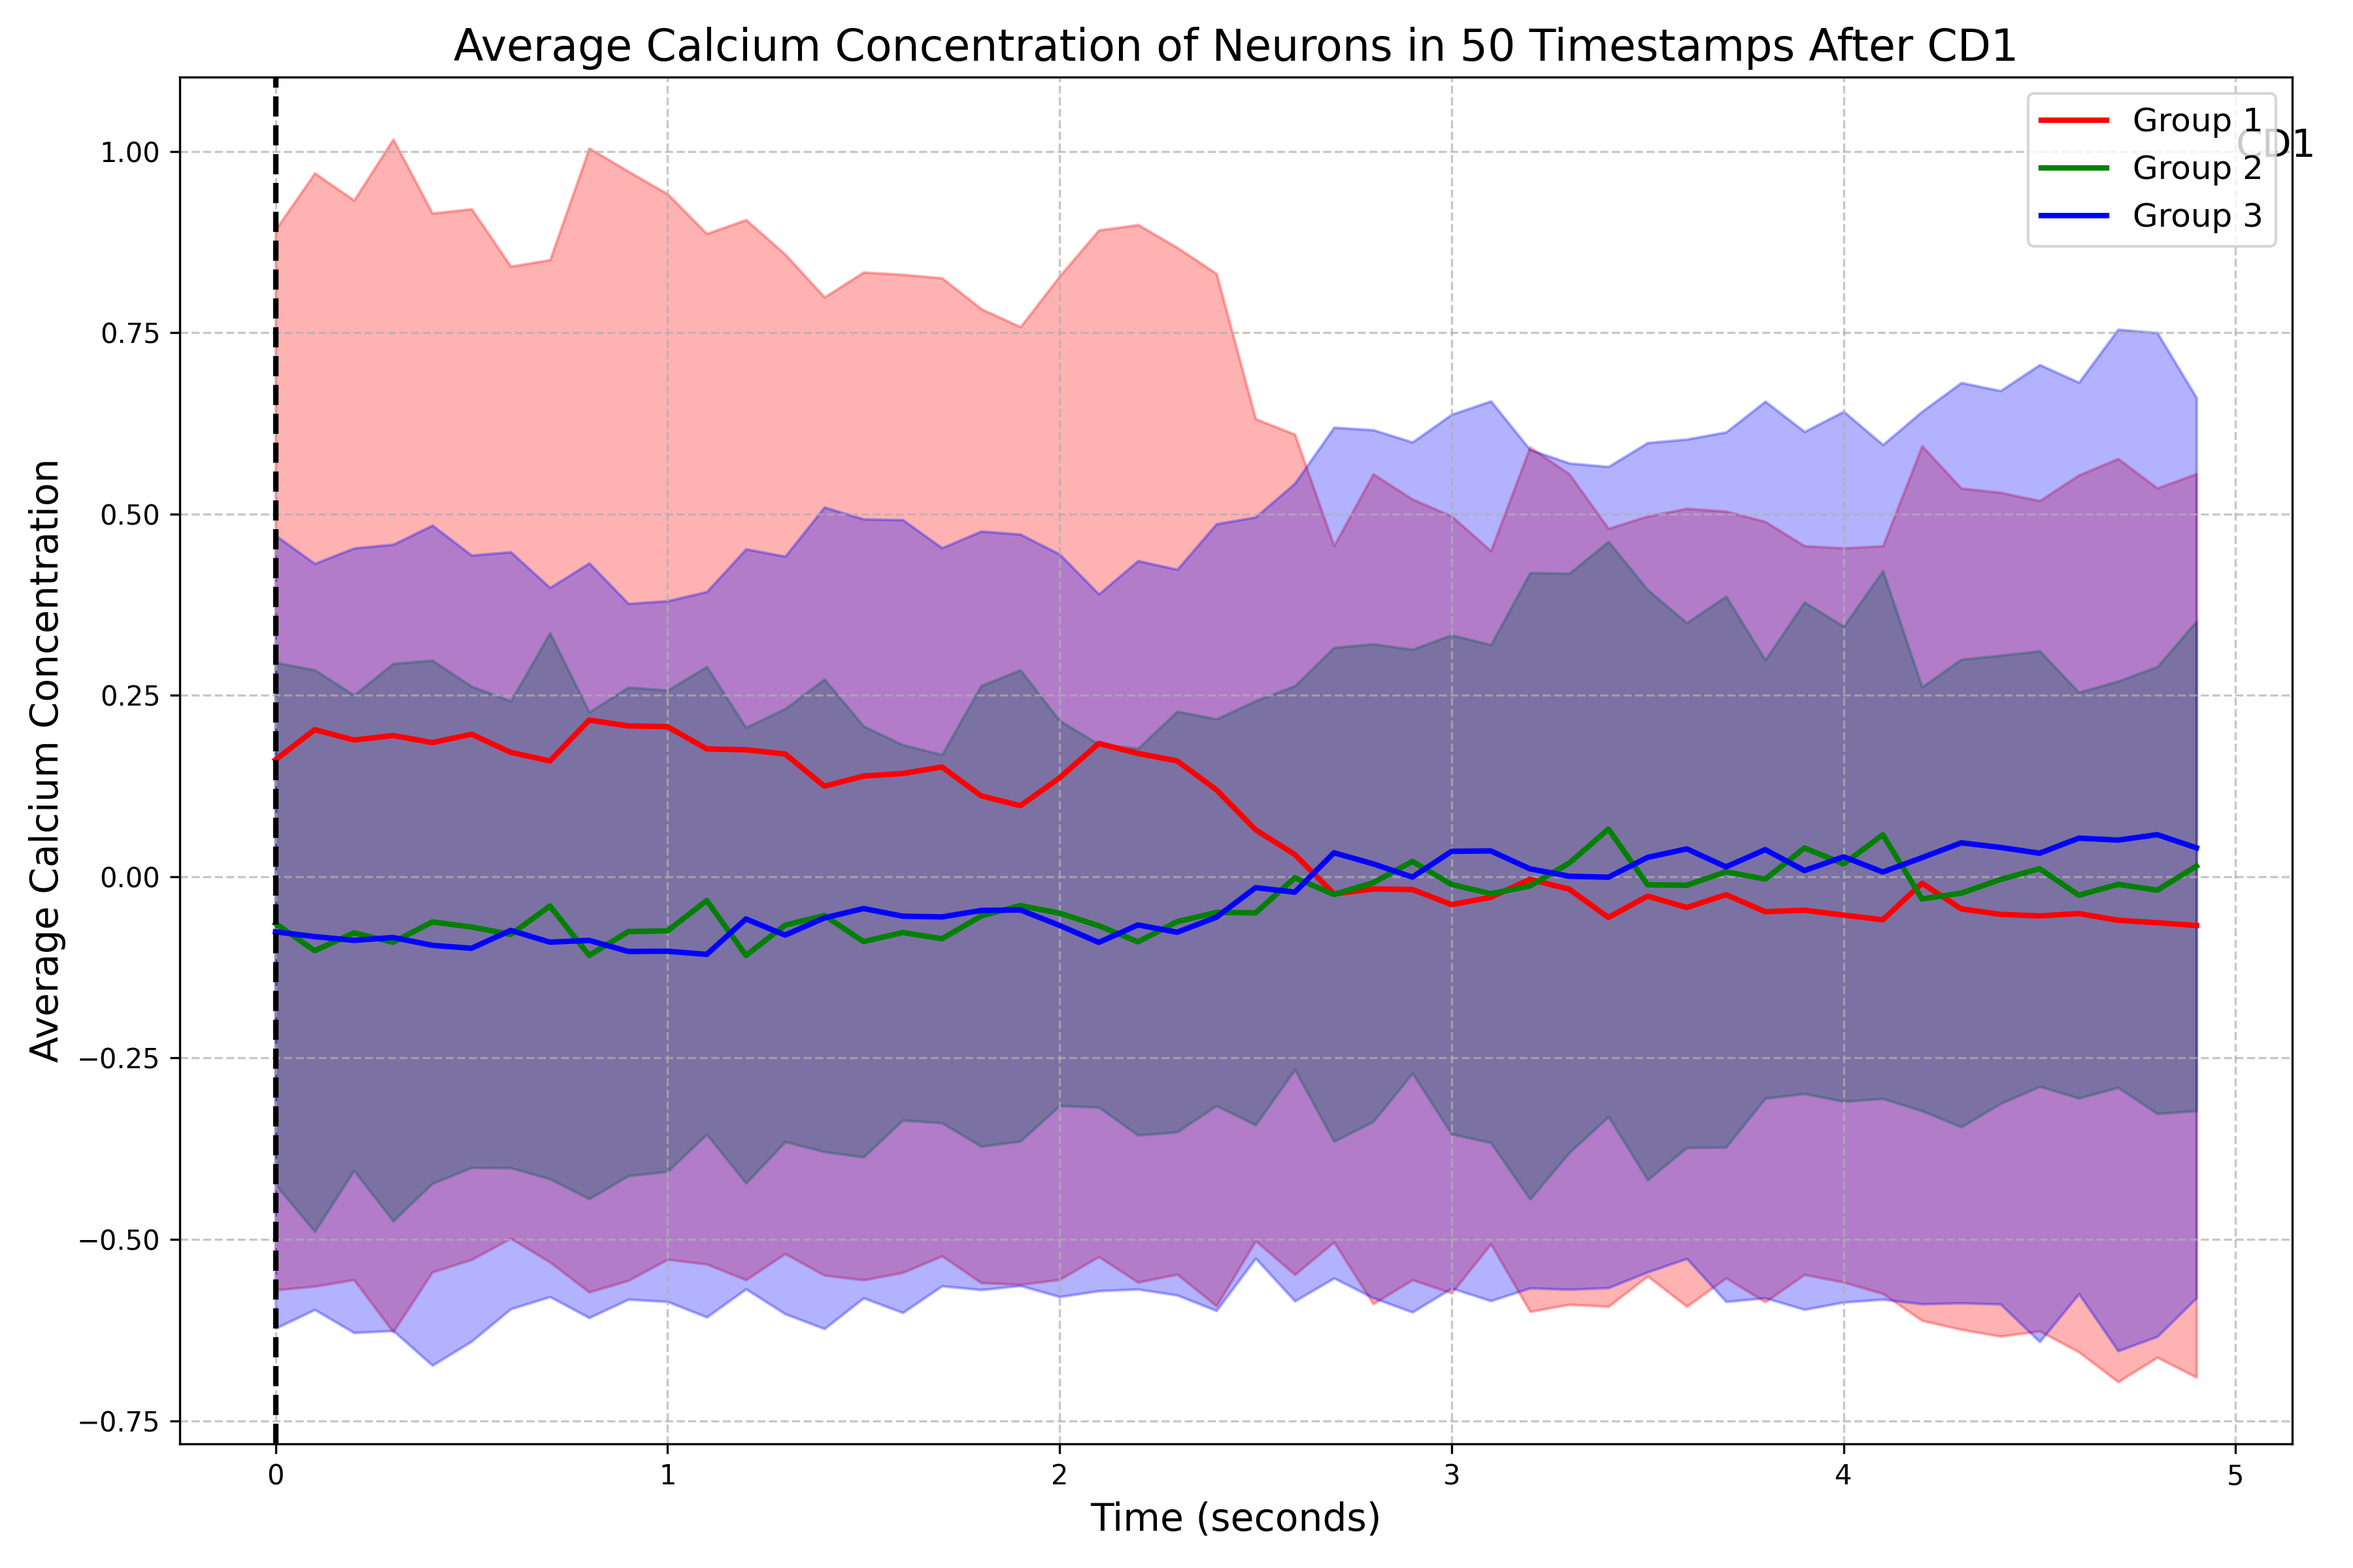
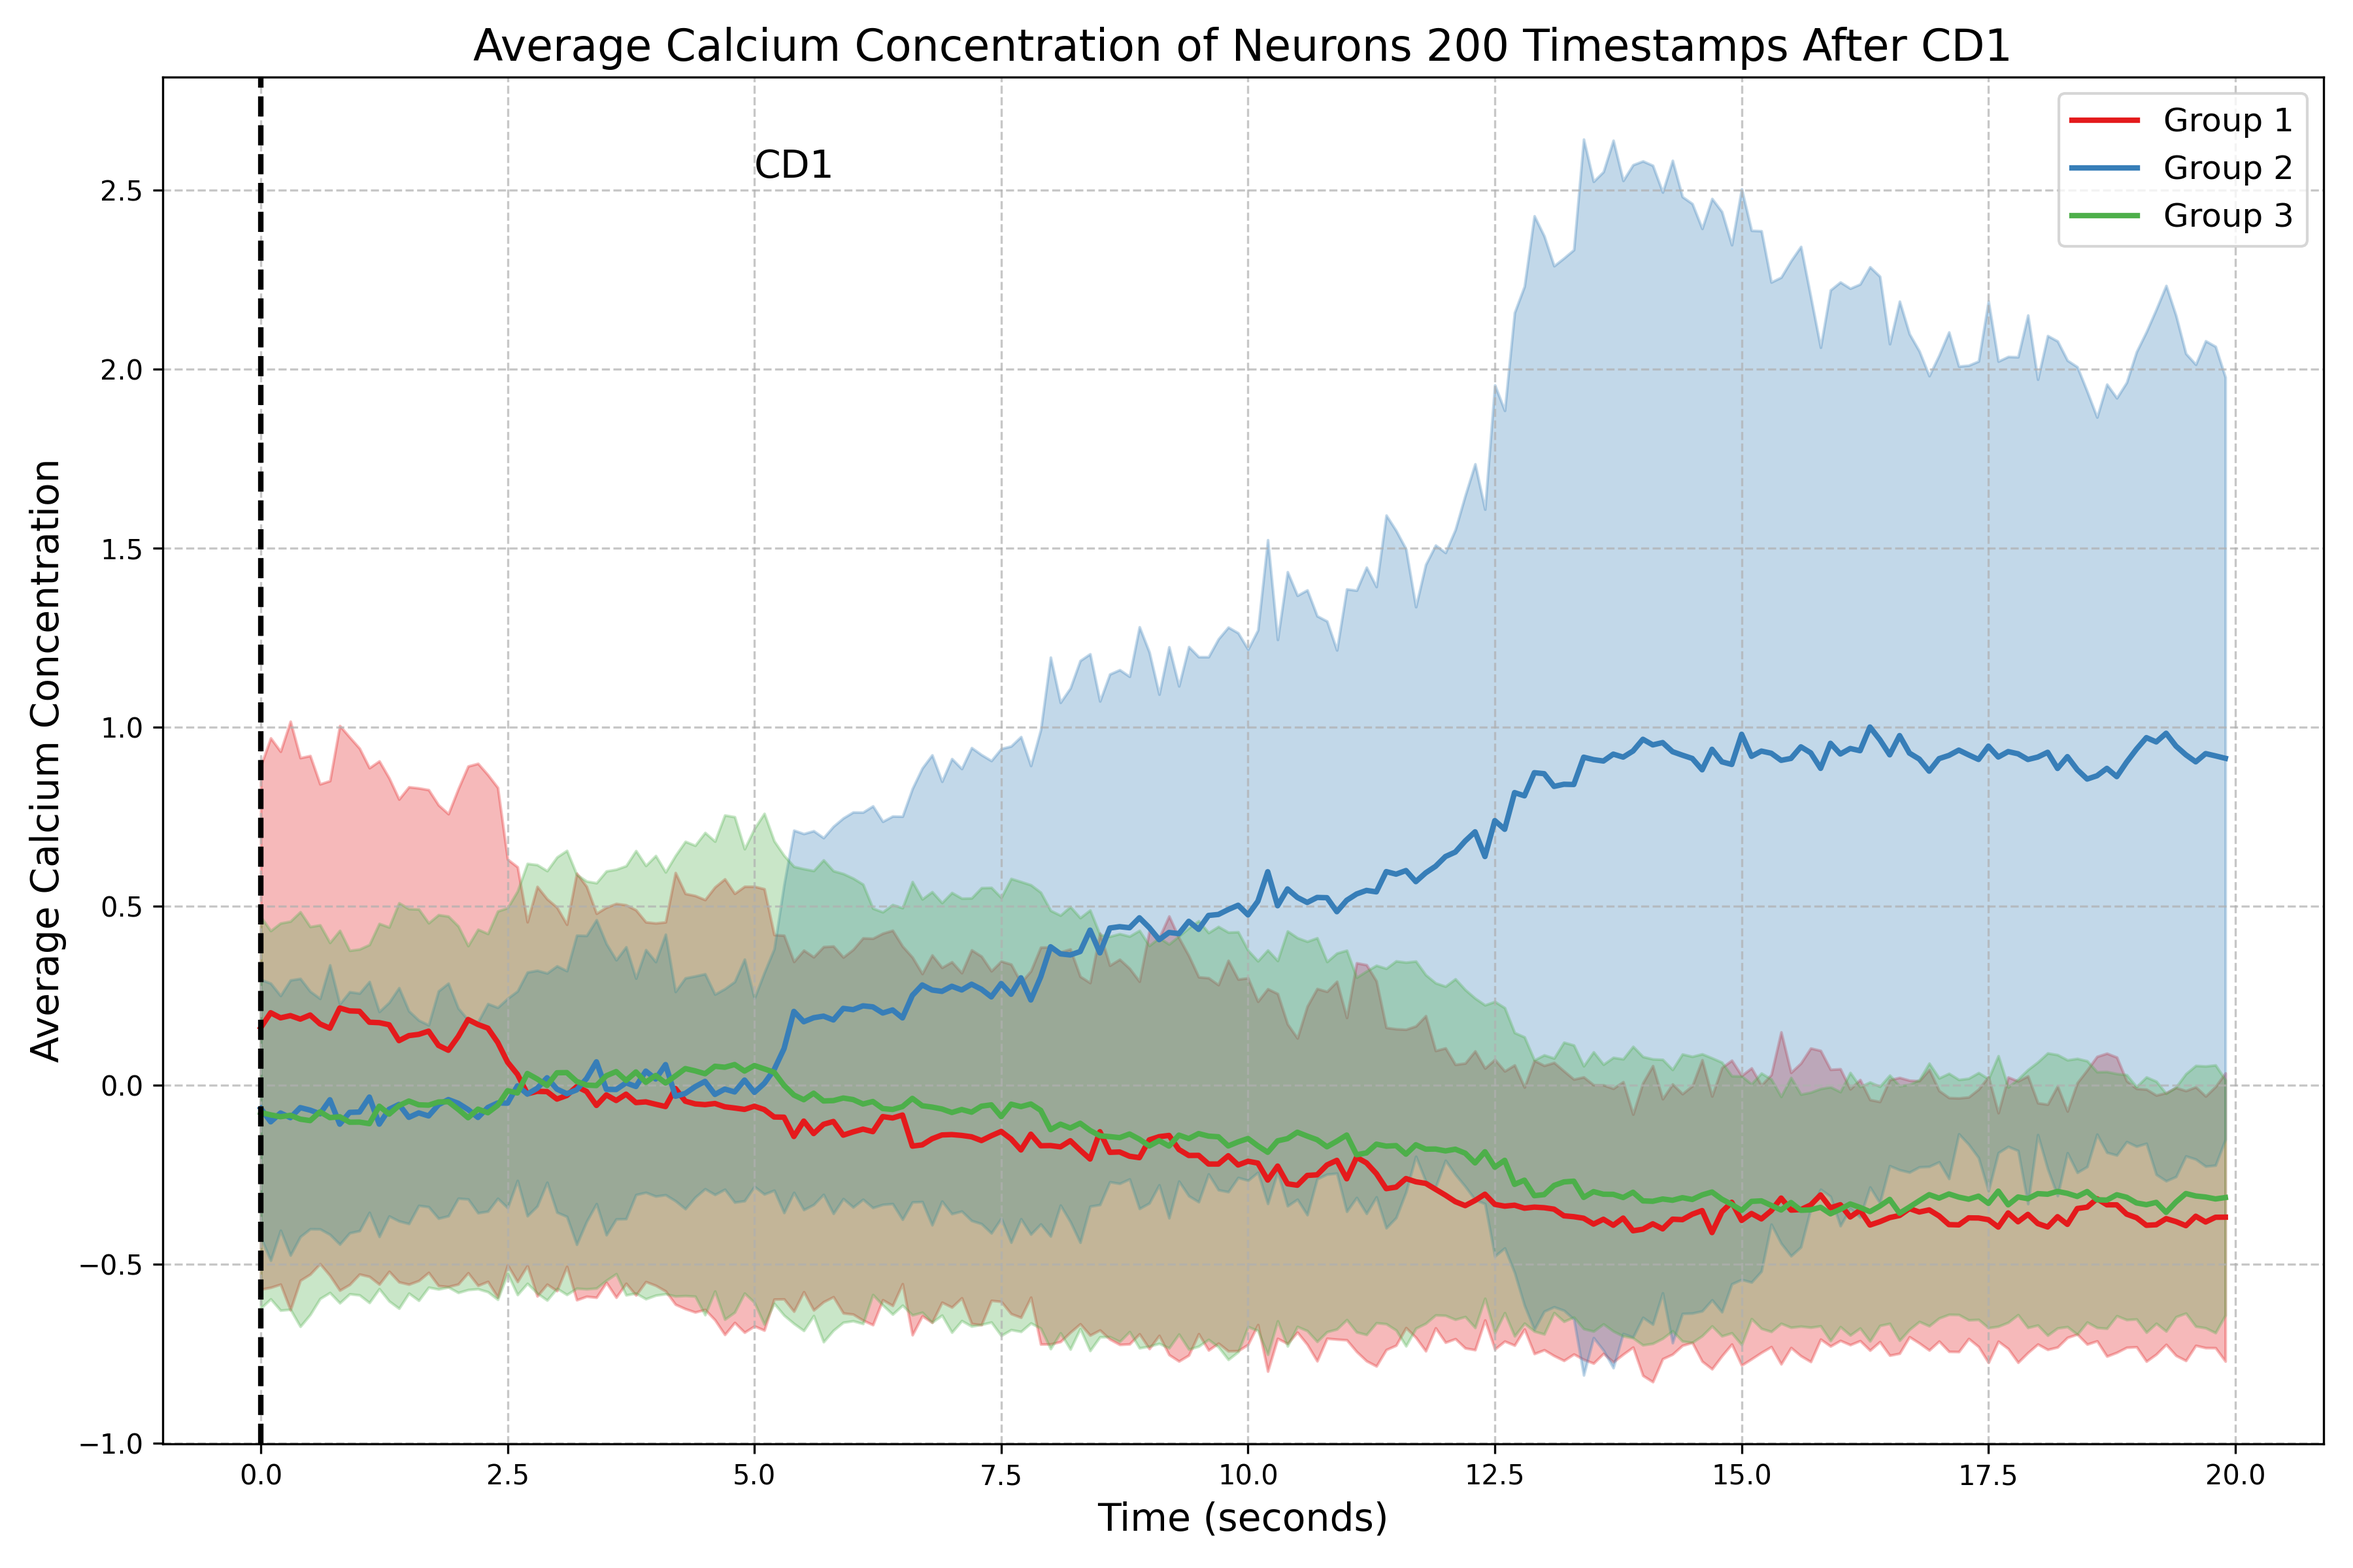
统一颜色

diff --git a/Visualization/src/show_trace.py b/Visualization/src/show_trace.py
@@ -16,9 +16,9 @@ def parse_args():
     parser.add_argument('--output-dir', type=str, 
                         default='../results/CD1_traces/',
                         help='输出图像目录')
-    parser.add_argument('--before-stamps', type=int, default=50,
+    parser.add_argument('--before-stamps', type=int, default=200,
                         help='CD1标签前的时间戳数量')
-    parser.add_argument('--after-stamps', type=int, default=50,
+    parser.add_argument('--after-stamps', type=int, default=200,
                         help='CD1标签后的时间戳数量')
     return parser.parse_args()
 
@@ -179,25 +179,25 @@ def plot_trace_before_cd1(data, cd1_index, n_stamps, output_path):
     plt.figure(figsize=(12, 8))
     
     # 使用统一的颜色方案绘制三条曲线及其阴影区域
-    # 组1
+    # Group 1
     plt.plot(plot_data['relative_time'], plot_data['group1_avg'], 
-             color=GROUP_COLORS['group1'], label='组1', linewidth=2)
+             color=GROUP_COLORS['group1'], label='Group 1', linewidth=2)
     plt.fill_between(plot_data['relative_time'], 
                      plot_data['group1_avg'] - plot_data['group1_std'],
                      plot_data['group1_avg'] + plot_data['group1_std'],
                      color=GROUP_COLORS['group1'], alpha=0.3)
     
-    # 组2
+    # Group 2
     plt.plot(plot_data['relative_time'], plot_data['group2_avg'], 
-             color=GROUP_COLORS['group2'], label='组2', linewidth=2)
+             color=GROUP_COLORS['group2'], label='Group 2', linewidth=2)
     plt.fill_between(plot_data['relative_time'], 
                      plot_data['group2_avg'] - plot_data['group2_std'],
                      plot_data['group2_avg'] + plot_data['group2_std'],
                      color=GROUP_COLORS['group2'], alpha=0.3)
     
-    # 组3
+    # Group 3
     plt.plot(plot_data['relative_time'], plot_data['group3_avg'], 
-             color=GROUP_COLORS['group3'], label='组3', linewidth=2)
+             color=GROUP_COLORS['group3'], label='Group 3', linewidth=2)
     plt.fill_between(plot_data['relative_time'], 
                      plot_data['group3_avg'] - plot_data['group3_std'],
                      plot_data['group3_avg'] + plot_data['group3_std'],
@@ -205,16 +205,16 @@ def plot_trace_before_cd1(data, cd1_index, n_stamps, output_path):
     
     # 添加图例和标签
     plt.legend(fontsize=12)
-    plt.xlabel('时间 (秒)', fontsize=14)
-    plt.ylabel('平均钙离子浓度', fontsize=14)
-    plt.title(f'CD1标签前{n_stamps}个时间戳的神经元平均钙离子浓度', fontsize=16)
+    plt.xlabel('Time (seconds)', fontsize=14)
+    plt.ylabel('Average Calcium Concentration', fontsize=14)
+    plt.title(f'Average Calcium Concentration of Neurons {n_stamps} Timestamps Before CD1', fontsize=16)
     
     # 添加垂直线标记CD1出现时间点
     plt.axvline(x=plot_data['relative_time'].max(), color='k', linestyle='--', linewidth=2)
     plt.text(plot_data['relative_time'].max()-5, plt.ylim()[1]*0.9, 'CD1', fontsize=14)
     
     # 网格线
-    plt.grid(True, linestyle='--', alpha=0.7)
+    plt.grid(False)
     
     # 保存图像
     plt.tight_layout()
@@ -254,25 +254,25 @@ def plot_trace_after_cd1(data, cd1_index, n_stamps, output_path):
     plt.figure(figsize=(12, 8))
     
     # 使用统一的颜色方案绘制三条曲线及其阴影区域
-    # 组1
+    # Group 1
     plt.plot(plot_data['relative_time'], plot_data['group1_avg'], 
-             color=GROUP_COLORS['group1'], label='组1', linewidth=2)
+             color=GROUP_COLORS['group1'], label='Group 1', linewidth=2)
     plt.fill_between(plot_data['relative_time'], 
                      plot_data['group1_avg'] - plot_data['group1_std'],
                      plot_data['group1_avg'] + plot_data['group1_std'],
                      color=GROUP_COLORS['group1'], alpha=0.3)
     
-    # 组2
+    # Group 2
     plt.plot(plot_data['relative_time'], plot_data['group2_avg'], 
-             color=GROUP_COLORS['group2'], label='组2', linewidth=2)
+             color=GROUP_COLORS['group2'], label='Group 2', linewidth=2)
     plt.fill_between(plot_data['relative_time'], 
                      plot_data['group2_avg'] - plot_data['group2_std'],
                      plot_data['group2_avg'] + plot_data['group2_std'],
                      color=GROUP_COLORS['group2'], alpha=0.3)
     
-    # 组3
+    # Group 3
     plt.plot(plot_data['relative_time'], plot_data['group3_avg'], 
-             color=GROUP_COLORS['group3'], label='组3', linewidth=2)
+             color=GROUP_COLORS['group3'], label='Group 3', linewidth=2)
     plt.fill_between(plot_data['relative_time'], 
                      plot_data['group3_avg'] - plot_data['group3_std'],
                      plot_data['group3_avg'] + plot_data['group3_std'],
@@ -280,16 +280,16 @@ def plot_trace_after_cd1(data, cd1_index, n_stamps, output_path):
     
     # 添加图例和标签
     plt.legend(fontsize=12)
-    plt.xlabel('时间 (秒)', fontsize=14)
-    plt.ylabel('平均钙离子浓度', fontsize=14)
-    plt.title(f'CD1标签后{n_stamps}个时间戳的神经元平均钙离子浓度', fontsize=16)
+    plt.xlabel('Time (seconds)', fontsize=14)
+    plt.ylabel('Average Calcium Concentration', fontsize=14)
+    plt.title(f'Average Calcium Concentration of Neurons {n_stamps} Timestamps After CD1', fontsize=16)
     
     # 添加垂直线标记CD1出现时间点
     plt.axvline(x=0, color='k', linestyle='--', linewidth=2)
     plt.text(5, plt.ylim()[1]*0.9, 'CD1', fontsize=14)
     
     # 网格线
-    plt.grid(True, linestyle='--', alpha=0.7)
+    plt.grid(False)
     
     # 保存图像
     plt.tight_layout()
